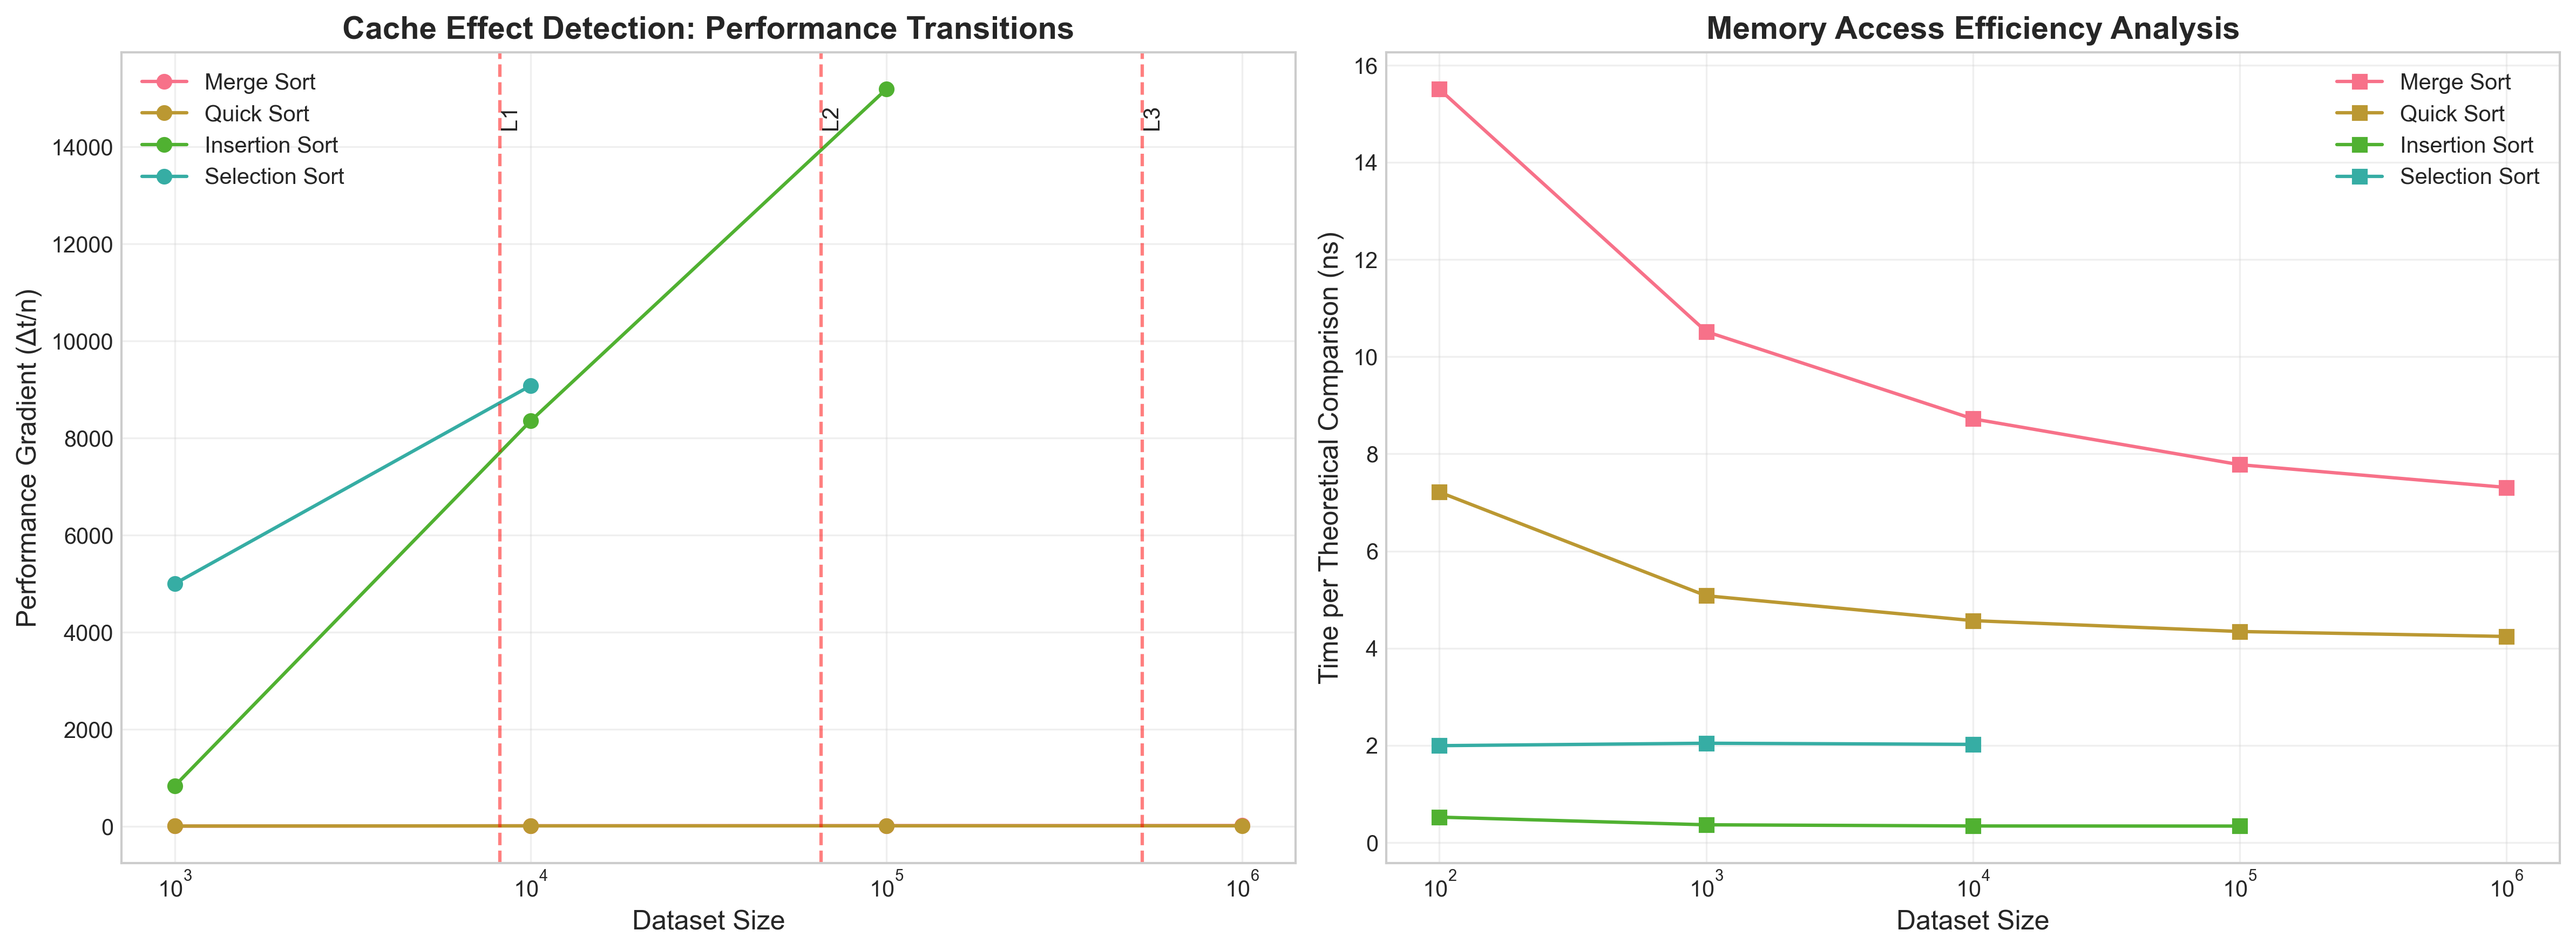
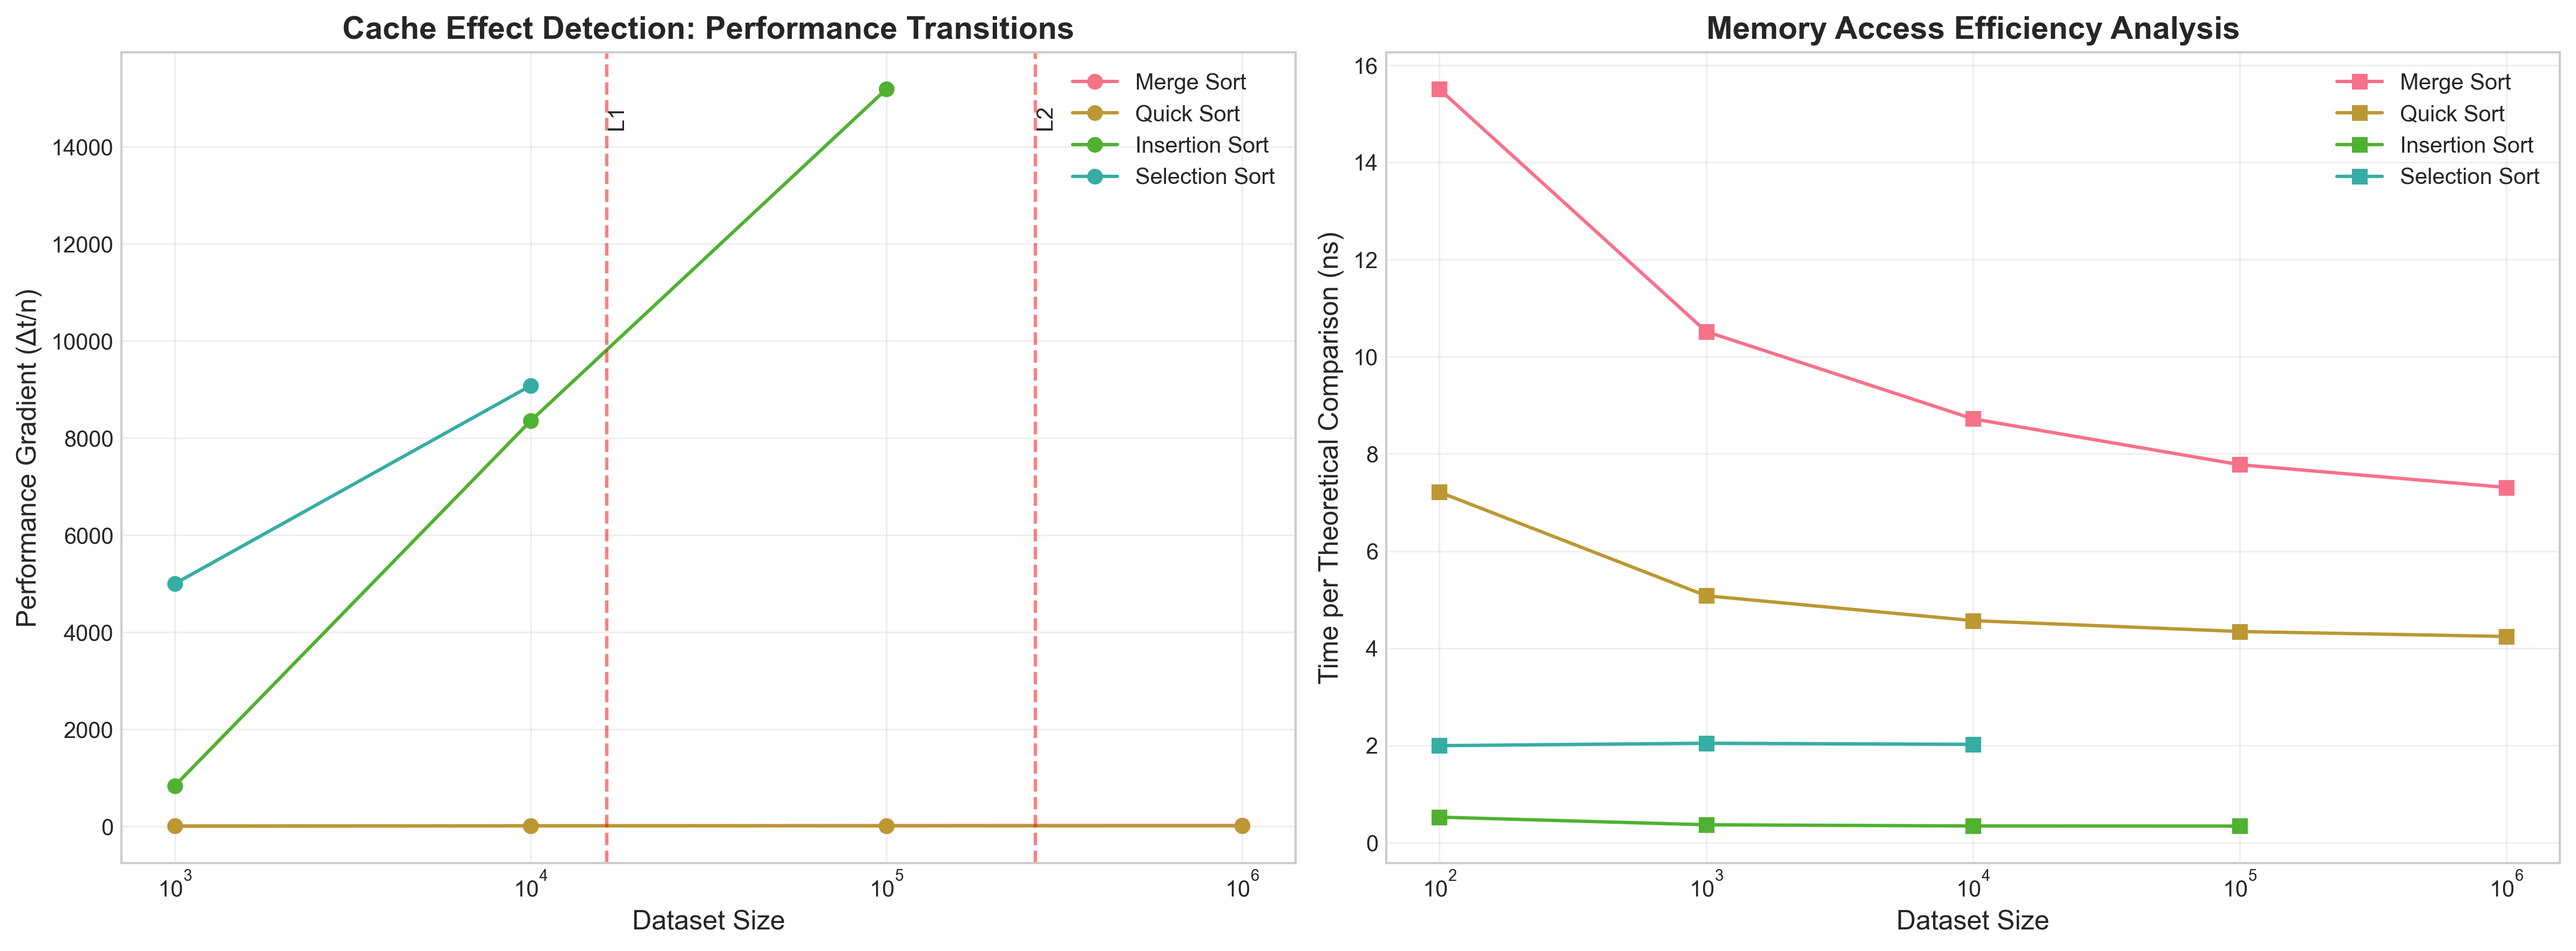
update cache spec

Changed region(s): [[0.4059, 0.0624, 0.4996, 0.2184], [0.0624, 0.0624, 0.1249, 0.1872]]

diff --git a/analysis.py b/analysis.py
@@ -183,9 +183,9 @@ class SortingAlgorithmAnalyzer:
 
         # Add typical cache size markers
         cache_sizes = {
-                'L1': 32 * 1024 / 4,  # 32KB L1 cache / 4 bytes per int
-                'L2': 256 * 1024 / 4,  # 256KB L2 cache / 4 bytes per int
-                'L3': 2048 * 1024 / 4  # 2MB L3 cache / 4 bytes per int
+                'L1': 64 * 1024 / 4,  # 64KB L1 cache / 4 bytes per int
+                'L2': (1 * 1024) * 1024 / 4,  # 1MB L2 cache / 4 bytes per int
+                'L3': (32 * 1024) * 1024 / 4  # 32MB L3 cache / 4 bytes per int
         }
 
         for cache_name, size in cache_sizes.items():
@@ -546,9 +546,9 @@ class SortingAlgorithmAnalyzer:
 
         # Identify cache transition points
         cache_boundaries = {
-                'L1 boundary': 8000,  # ~32KB
-                'L2 boundary': 65000,  # ~256KB
-                'L3 boundary': 500000  # ~2MB
+                'L1 boundary': 16384,  # 64KB / 4B
+                'L2 boundary': 262144,  # 1MB / 4B
+                'L3 boundary': 8388608  # 32MB / 4B
         }
 
         report.append("- **Cache transition points identified**:\n")

diff --git a/result/research_analysis_report.md b/result/research_analysis_report.md
@@ -14,9 +14,9 @@ Our empirical analysis reveals significant deviations between theoretical comple
 Analysis of performance transitions reveals cache boundary effects:
 
 - **Cache transition points identified**:
-  - L1 boundary: ~8,000 elements
-  - L2 boundary: ~65,000 elements
-  - L3 boundary: ~500,000 elements
+  - L1 boundary: ~16,384 elements
+  - L2 boundary: ~262,144 elements
+  - L3 boundary: ~8,388,608 elements
 
 - **Cache-friendly algorithms**: Insertion Sort shows superior cache locality for small datasets
 - **Cache-unfriendly algorithms**: Merge Sort suffers from auxiliary array overhead
